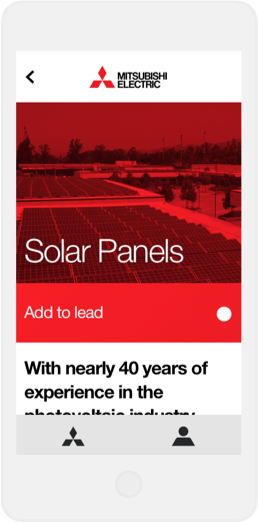
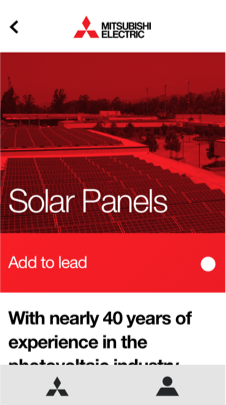
Add Phone and Tablet Components

diff --git a/client/components/Tablet.vue b/client/components/Tablet.vue
@@ -1,0 +1,106 @@
+<style lang='scss' scoped>
+  @import '../styles/_main';
+
+  .pca-hold {
+  width: 100%;
+}
+
+.pca-hold .pca-main {
+  display: block;
+  position: relative;
+  background-color: transparent;
+  border-radius: 18.7px;
+  border: 16.83px solid #1d2d2d;
+  border-top: 105.3558px solid #1d2d2d;
+  border-bottom: 105.3558px solid #1d2d2d;
+  border-radius: 37.4px;
+}
+
+.pca-hold .pca-main:after {
+  content: '';
+  position: absolute;
+  top: -67.32px;
+  left: 50%;
+  -webkit-transform: translate(-50%,0);
+  -ms-transform: translate(-50%,0);
+  -o-transform: translate(-50%,0);
+  transform: translate(-50%,0);
+  width: 13.838px;
+  height: 13.838px;
+  background-color: #959595;
+  border-radius: 100%;
+}
+
+.pca-hold .pca-main:before {
+  content: "";
+  position: absolute;
+  left: 50%;
+  top: -33.66px;
+  opacity: 1;
+  width: 67.32px;
+  height: 8.602px;
+  -webkit-transform: translate(-50%);
+  -ms-transform: translate(-50%);
+  -o-transform: translate(-50%);
+  transform: translate(-50%);
+  border-radius: 3.74px;
+  background-color: #959595;
+}
+
+.pca-hold .pca-inner {
+  display: block;
+}
+
+.pca-hold .pca-sub {
+  display: block;
+  text-align: center;
+  position: relative;
+  height: 100%;
+  bottom: 115px;
+}
+
+.pca-hold .pca-sub .pca-bot {
+  border-radius: 100%;
+  width: 59.279px;
+  height: 59.279px;
+  display: block;
+  margin: 0 auto;
+  background-color: transparent;
+  box-shadow: 0 0 0 2px rgba(195,195,195,0.5);
+  z-index: 2;
+  -webkit-transform: translate(0,-82.3174px);
+  -ms-transform: translate(0,-82.3174px);
+  -o-transform: translate(0,-82.3174px);
+  transform: translate(0,-82.3174px);
+}
+
+</style>
+
+<template>
+  <div class='pca-hold'>
+    <div class='pca-main'>
+      <div class='pca-inner'><img v-bind:src='path' v-bind:alt='alt' />
+      </div><!-- 'pca-inner' -->
+    </div><!-- 'pca-main' -->
+    <div class='pca-sub'>
+      <div class='pca-top'></div>
+      <div class='pca-mid'>
+        <div class='pca-part'></div>
+      </div><!-- 'pca-mid' -->
+      <div class='pca-bot'></div>
+    </div><!-- 'pca-bot' -->
+</div><!-- 'pca-hold' -->
+</template>
+
+<script>
+
+  module.exports = {
+    name: 'Tablet',
+
+    props: [
+      'path',
+      'alt'
+    ],
+
+  }
+</script>

diff --git a/client/components/Phone.vue b/client/components/Phone.vue
@@ -1,0 +1,105 @@
+<style lang='scss' scoped>
+  @import '../styles/_main';
+
+  .pca-hold {
+  width: 100%;
+}
+
+.pca-hold .pca-main {
+  display: block;
+  position: relative;
+  background-color: transparent;
+  border-radius: 18.7px;
+  border: 16.83px solid #1d2d2d;
+  border-top: 105.3558px solid #1d2d2d;
+  border-bottom: 105.3558px solid #1d2d2d;
+  border-radius: 37.4px;
+}
+
+.pca-hold .pca-main:after {
+  content: '';
+  position: absolute;
+  top: -67.32px;
+  left: 50%;
+  -webkit-transform: translate(-50%,0);
+  -ms-transform: translate(-50%,0);
+  -o-transform: translate(-50%,0);
+  transform: translate(-50%,0);
+  width: 13.838px;
+  height: 13.838px;
+  background-color: #959595;
+  border-radius: 100%;
+}
+
+.pca-hold .pca-main:before {
+  content: "";
+  position: absolute;
+  left: 50%;
+  top: -33.66px;
+  opacity: 1;
+  width: 67.32px;
+  height: 8.602px;
+  -webkit-transform: translate(-50%);
+  -ms-transform: translate(-50%);
+  -o-transform: translate(-50%);
+  transform: translate(-50%);
+  border-radius: 3.74px;
+  background-color: #959595;
+}
+
+.pca-hold .pca-inner {
+  display: block;
+}
+
+.pca-hold .pca-sub {
+  display: block;
+  text-align: center;
+  position: relative;
+  height: 100%;
+  bottom: 115px;
+}
+
+.pca-hold .pca-sub .pca-bot {
+  border-radius: 100%;
+  width: 59.279px;
+  height: 59.279px;
+  display: block;
+  margin: 0 auto;
+  box-shadow: 0 0 0 2px rgba(195,195,195,0.5);
+  z-index: 2;
+  -webkit-transform: translate(0,-82.3174px);
+  -ms-transform: translate(0,-82.3174px);
+  -o-transform: translate(0,-82.3174px);
+  transform: translate(0,-82.3174px);
+}
+
+</style>
+
+<template>
+  <div class='pca-hold'>
+    <div class='pca-main'>
+      <div class='pca-inner'><img v-bind:src='path' v-bind:alt='alt' />
+      </div><!-- 'pca-inner' -->
+    </div><!-- 'pca-main' -->
+    <div class='pca-sub'>
+      <div class='pca-top'></div>
+      <div class='pca-mid'>
+        <div class='pca-part'></div>
+      </div><!-- 'pca-mid' -->
+      <div class='pca-bot'></div>
+    </div><!-- 'pca-bot' -->
+</div><!-- 'pca-hold' -->
+</template>
+
+<script>
+
+  module.exports = {
+    name: 'Phone',
+
+    props: [
+      'path',
+      'alt'
+    ],
+
+  }
+</script>

diff --git a/client/components/ContentSection.vue b/client/components/ContentSection.vue
@@ -116,7 +116,18 @@
       <template v-for='(i, image) in content'>
 
         <div class='section-image-cont' v-bind:class='image.span'>
-          <img v-bind:src='image.path' v-bind:alt='image.alt' />
+          <template v-if='image.effect && ((image.effect == "phone") || (image.effect == "tablet"))'>
+            <template v-if='image.effect == "phone"'>
+              <phone :path='image.path' :alt='image.alt'></phone>
+            </template>
+            <template v-else>
+              <tablet :path='image.path' :alt='image.alt'></tablet>
+            </template>
+          </template>
+
+          <template v-else>
+            <img v-bind:src='image.path' v-bind:alt='image.alt' />
+          </template>
         </div>
 
 
@@ -125,7 +136,18 @@
 
     <template v-if='type == "full"'>
       <div class='section-image-cont full' v-bind:class='content.span ? content.span : "lg"'>
+        <template v-if="typeof content.effect !== 'undefined'">
+          <template v-if='content.effect == "phone"'>
+            <phone :path='content.path' :alt='image.alt'></phone>
+          </template>
+          <template v-if='content.effect == "tablet"'>
+            <tablet :path='content.path' :alt='content.alt'></tablet>
+          </template>
+        </template>
+
+        <template v-else>
         <img v-bind:src='content.path' v-bind:alt='content.alt' />
+      </template>
       </div>
     </template>
 
@@ -137,8 +159,15 @@
 
 <script>
 
+    var Phone = require('./Phone.vue');
+    var Tablet = require('./Tablet.vue');
+
   module.exports = {
     name: 'ContentSection',
+    components:{
+      Phone,
+      Tablet
+    },
 
     props: [
       'type',
